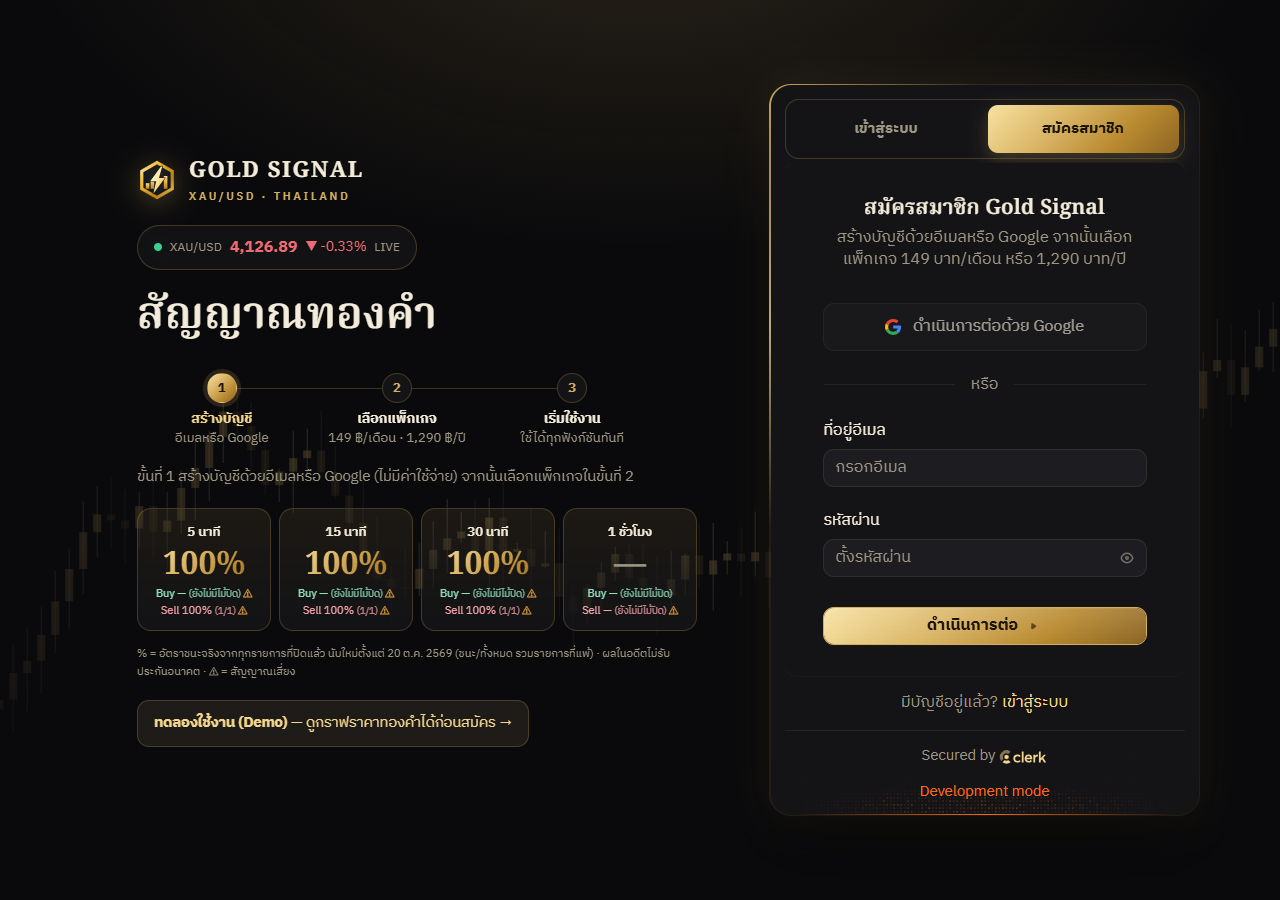
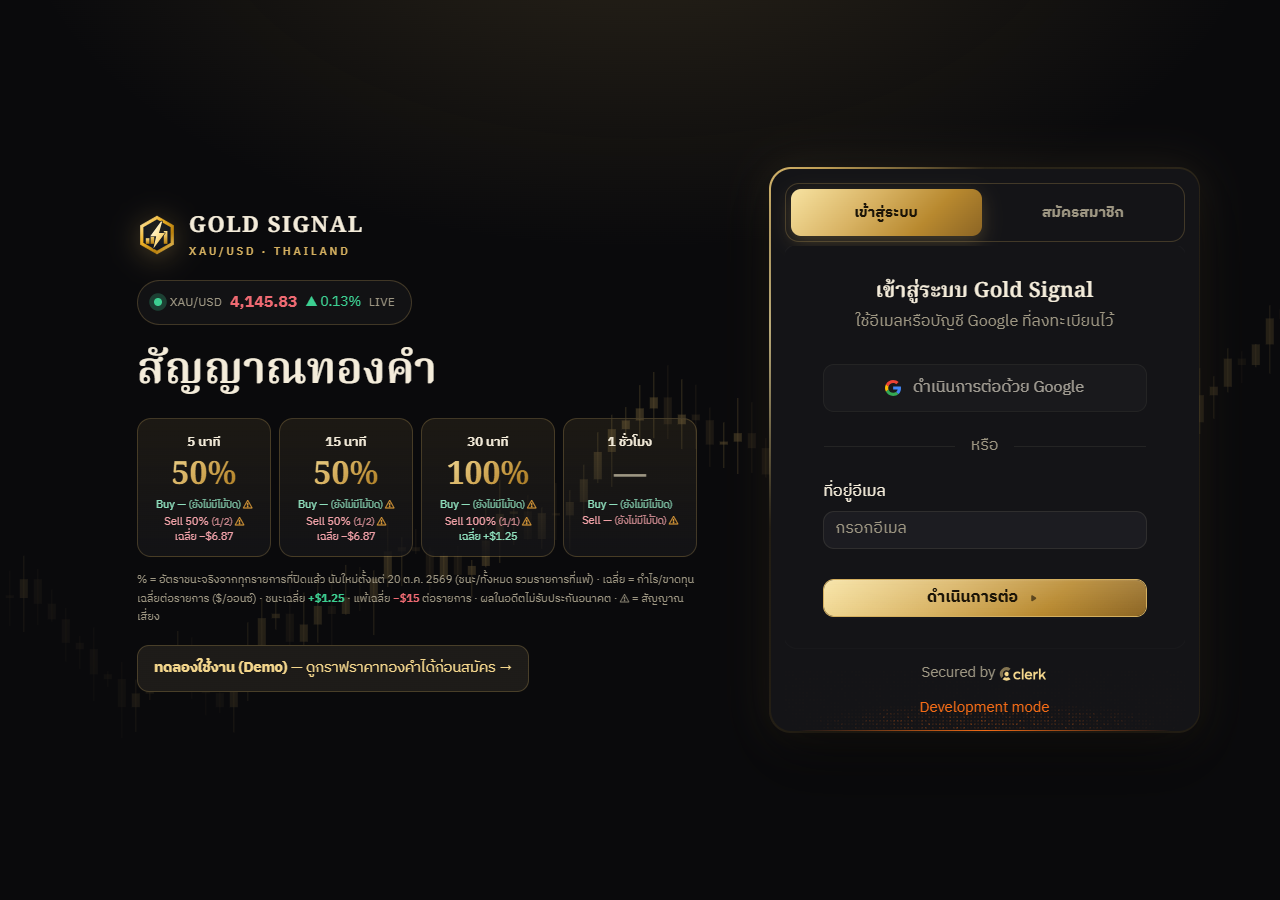
README: new sign-in screenshot with the average-per-trade line

diff --git a/README.md b/README.md
@@ -32,7 +32,7 @@
 <td><img src="docs/img/pricing.png" alt="Pricing"><br><sub><b>แพ็กเกจสมาชิก</b> — ชำระผ่าน Stripe (บัตร / PromptPay)</sub></td>
 </tr>
 <tr>
-<td><img src="docs/img/login.png" alt="Sign up"><br><sub><b>การเข้าสู่ระบบและสมัครสมาชิก</b> — จัดวางสองส่วน: ข้อมูลด้านซ้าย แบบฟอร์มด้านขวา พร้อมราคาทองคำแบบเรียลไทม์ อัตราชนะจริงของกติกาปัจจุบันรวมและแยกฝั่ง Buy / Sell ของแต่ละกรอบเวลา พร้อมผลของกติกาเดิมที่เลิกใช้ (รวมรายการที่ขาดทุนทั้งหมด) ขั้นตอน 3 ขั้น และคำถามที่พบบ่อย</sub></td>
+<td><img src="docs/img/login.png" alt="Sign up"><br><sub><b>การเข้าสู่ระบบและสมัครสมาชิก</b> — จัดวางสองส่วน: ข้อมูลด้านซ้าย แบบฟอร์มด้านขวา พร้อมราคาทองคำแบบเรียลไทม์ อัตราชนะจริงของกติกาปัจจุบันรวมและแยกฝั่ง Buy / Sell ของแต่ละกรอบเวลา ผลเฉลี่ยต่อรายการ ค่าเฉลี่ยของรายการที่ชนะเทียบกับรายการที่แพ้ พร้อมผลของกติกาเดิมที่เลิกใช้ (รวมรายการที่ขาดทุนทั้งหมด) ขั้นตอน 3 ขั้น และคำถามที่พบบ่อย</sub></td>
 <td><img src="docs/img/marketing.png" alt="Back office"><br><sub><b>ระบบหลังบ้าน</b> — ผู้ช่วยร่างประกาศการตลาดจากข้อมูลจริง</sub></td>
 </tr>
 </table>
